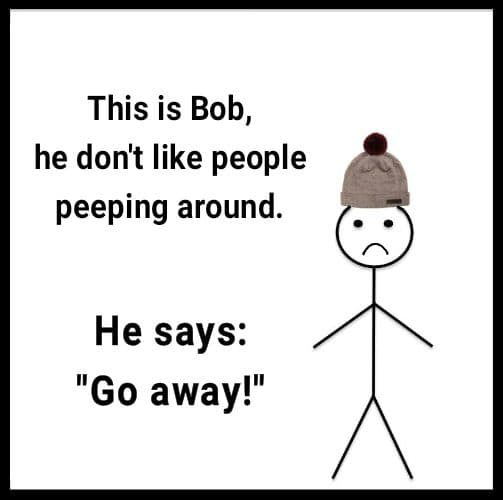
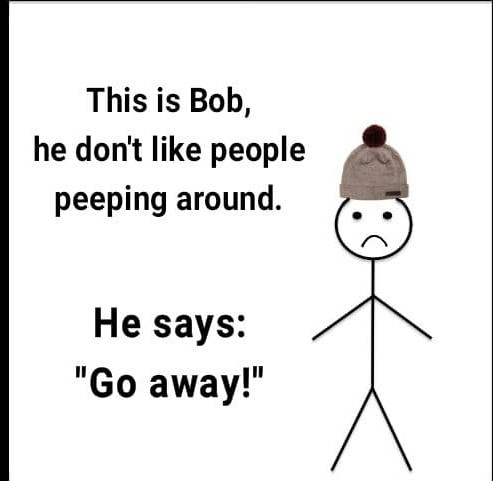
add border

diff --git a/admin_html.html b/admin_html.html
@@ -18,6 +18,9 @@
             border-radius: 7pt;
             background: white;
         }
+        body img {
+            border: 5px solid black;
+        }
         </style>
     </head>
     <body class="full">
